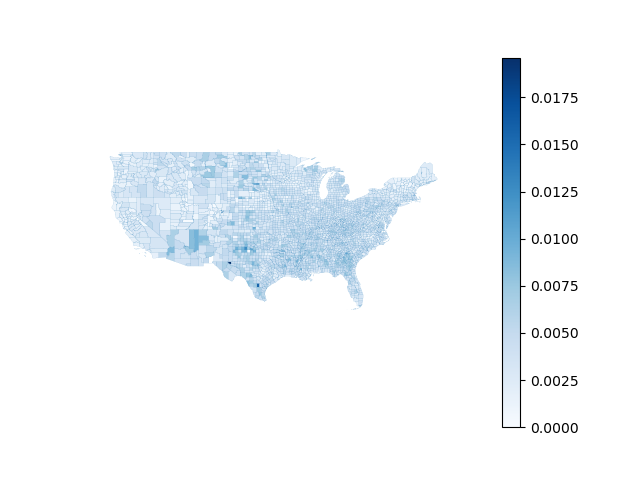
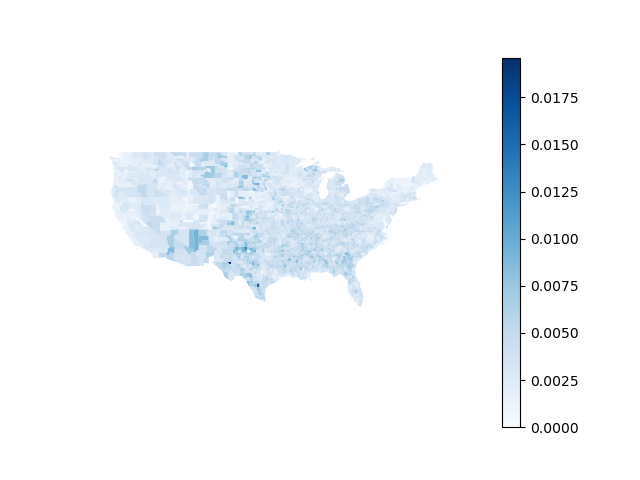
fixed the lovings diff

Changed region(s): [[0.1562, 0.3125, 0.6875, 0.625], [0.2812, 0.5, 0.3125, 0.5312]]

diff --git a/mine.py b/mine.py
@@ -294,20 +294,20 @@ def covidCountyData():
 
     states = states[~states['NAME'].isin(['Alaska','Hawaii','Peurto Rico'])]
 
-    bound = states.boundary.plot(linewidth=0.05)
+    bound = states.boundary.plot(linewidth=0.005)
     bound.set_xlim(-130, -60)
     bound.set_ylim(20, 50)
     # infection percentage graphing
-    states.plot(ax=bound, column='cumulative_percentage', legend=True, cmap='Reds')
-    plt.axis('off')
-    plt.show()
-    plt.savefig('infectedCountyPerc.png', transparent=True)
-
-
-    # states.plot(ax=bound, column='dead_percentage', legend=True, cmap='Blues')
+    # states.plot(ax=bound, column='cumulative_percentage', legend=True,vmax =1, cmap='Reds')
     # plt.axis('off')
     # plt.show()
-    # plt.savefig('deadCountyPerc.png', transparent=True)
+    # plt.savefig('infectedCountyPerc.png', transparent=True)
+
+
+    states.plot(ax=bound, column='dead_percentage', legend=True, cmap='Blues')
+    plt.axis('off')
+    plt.show()
+    plt.savefig('deadCountyPerc.png', transparent=True)
 
     # states = 
     # states.head()
